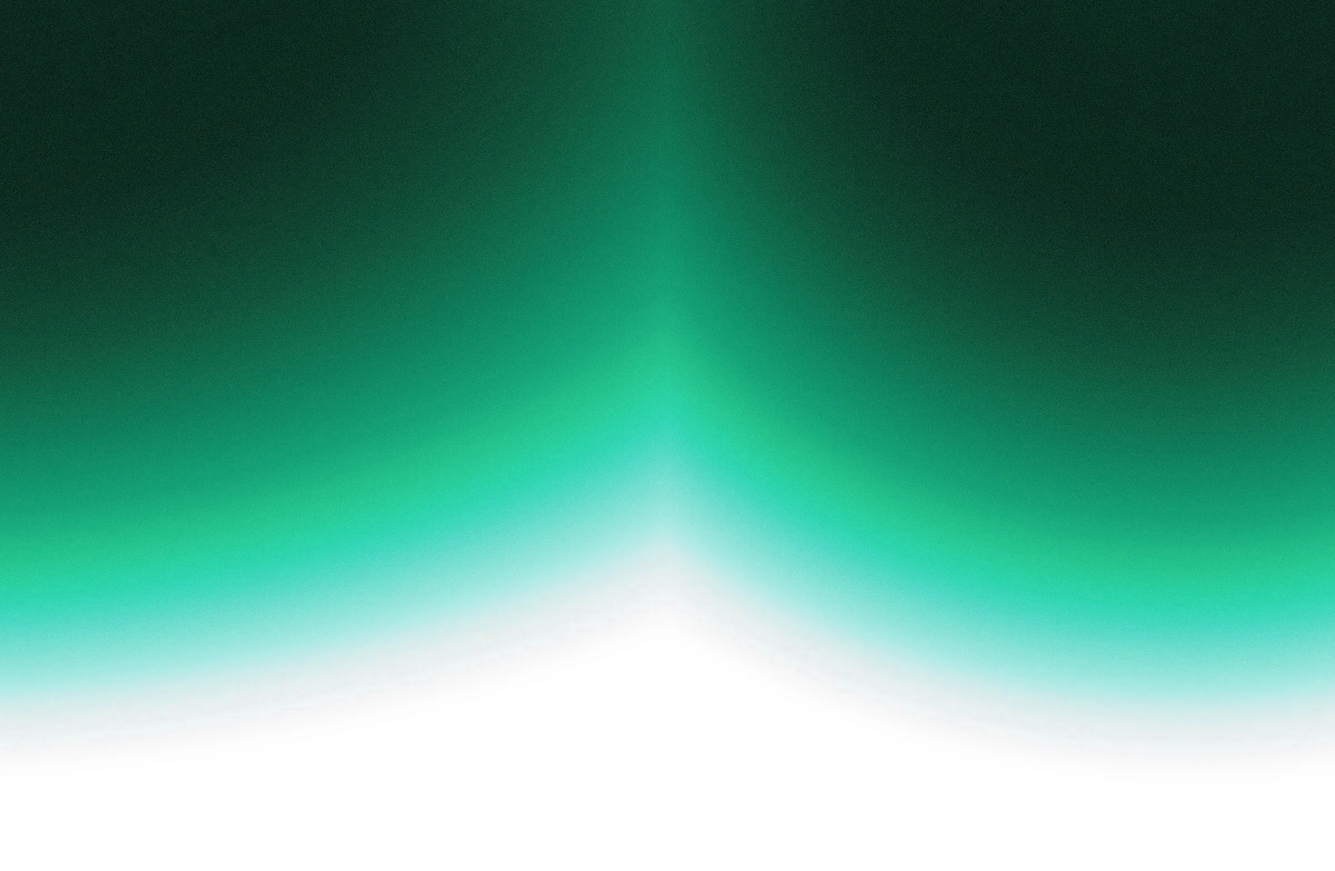
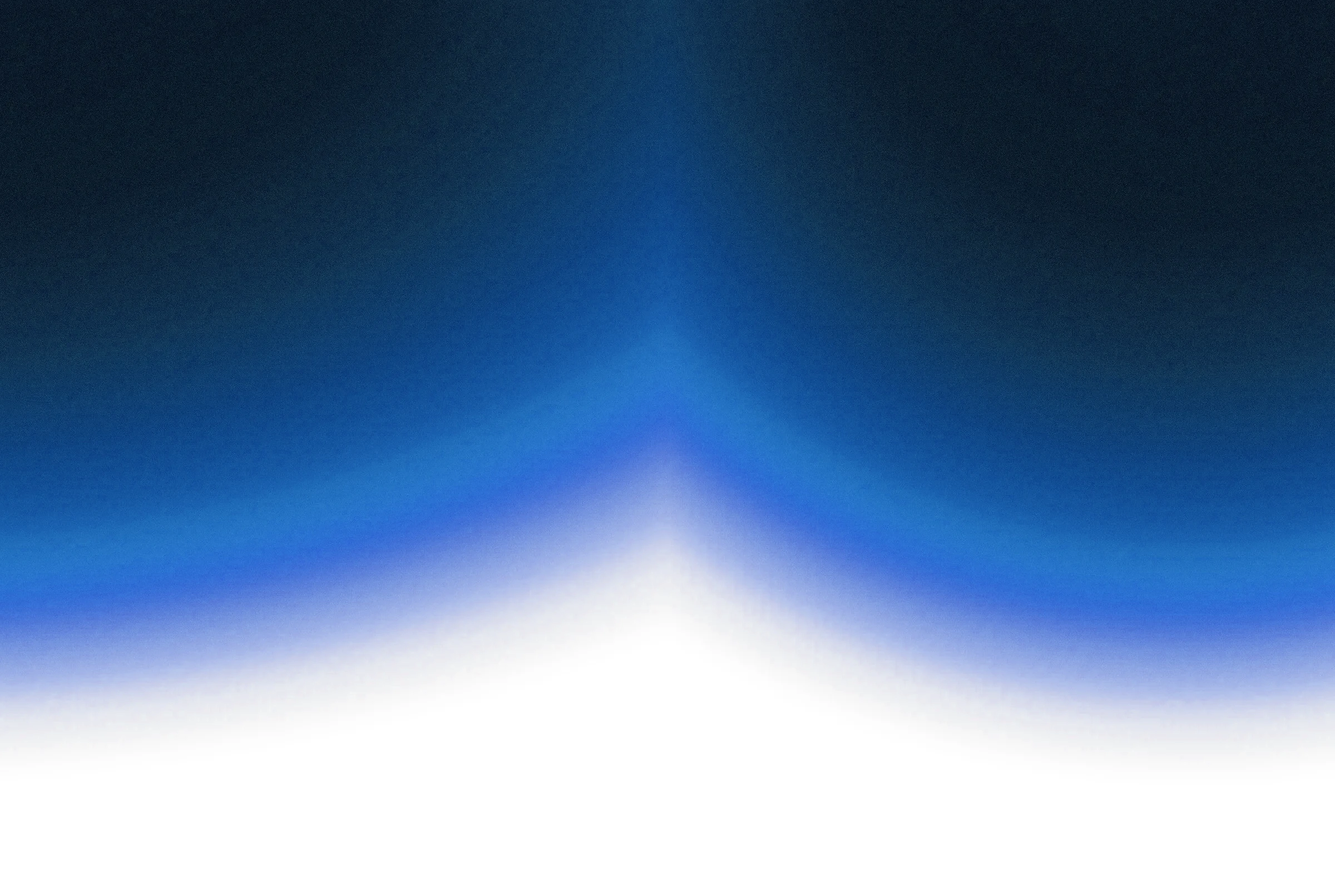
feat(ui): refine palette tokens to electric blue accent and update hero art

diff --git a/src/index.css b/src/index.css
@@ -9,8 +9,10 @@
 
 @layer base {
   :root {
-    /* Warm cream + ink + emerald, ported from the Bitplaza/Opten design system.
-       Spec: docs/superpowers/specs/2026-10-05-ui-redesign-foundation-landing-design.md §3 */
+    /* Warm cream + ink + electric blue, ported from the Bitplaza/Opten design
+       system. Spec: docs/superpowers/specs/2026-10-05-ui-redesign-foundation-landing-design.md §3
+       (accent switched from emerald #10A37F to blue #3575EE on 2026-10-06; the
+       score scale keeps green for "good"). */
     --background: 40 55% 96%;        /* #FAF6EE */
     --foreground: 25 29% 8%;         /* #1B140F */
 
@@ -20,10 +22,10 @@
     --popover: 0 0% 100%;
     --popover-foreground: 25 29% 8%;
 
-    /* Deep emerald. shadcn draws solid buttons, links and switches from
-       --primary, and white on this is 5.3:1. The bright brand emerald is
-       --accent, which is 3.2:1 under white and so never carries small text. */
-    --primary: 165 83% 26%;          /* #0B7A5F */
+    /* Deep blue. shadcn draws solid buttons, links and switches from
+       --primary, and white on this is 5.7:1. The bright brand blue is
+       --accent, which is 4.3:1 under white and so never carries small text. */
+    --primary: 221 67% 49%;          /* #2A5FD1 */
     --primary-foreground: 0 0% 100%;
 
     --secondary: 45 35% 93%;         /* #F4F1E8 */
@@ -32,7 +34,7 @@
     --muted: 45 35% 93%;
     --muted-foreground: 35 9% 39%;   /* #6B645A — 5.4:1 on cream */
 
-    --accent: 165 82% 35%;           /* #10A37F — glows, icons, rings, charts */
+    --accent: 219 84% 57%;           /* #3575EE — glows, icons, rings, charts */
     --accent-foreground: 0 0% 100%;
 
     --destructive: 6 54% 50%;        /* #C4483A */
@@ -40,18 +42,10 @@
 
     --border: 45 34% 89%;            /* #ECE7D8 */
     --input: 45 34% 89%;
-    --ring: 165 83% 26%;
+    --ring: 221 67% 49%;
 
     --radius: 0.75rem;
 
-    /* Custom tokens — warm, emerald-led */
-    --gradient-primary: linear-gradient(90deg, hsl(165 83% 26%) 0%, hsl(165 82% 35%) 100%);
-    --gradient-hero: linear-gradient(180deg, hsl(40 55% 96%) 0%, hsl(0 0% 100%) 100%);
-    --gradient-card: linear-gradient(135deg, hsl(0 0% 100% / 0.9) 0%, hsl(40 55% 96% / 0.8) 100%);
-    --glass-border: hsl(45 34% 89% / 0.8);
-    --glass-bg: hsl(0 0% 100% / 0.75);
-    --glow-primary: 0 20px 50px -20px hsl(165 82% 35% / 0.35);
-    --glow-subtle: 0 10px 30px -12px hsl(165 82% 35% / 0.15);
     /* Warm-tinted: a neutral grey shadow on cream reads as dirt. */
     --card-shadow: 0 1px 2px rgb(61 40 23 / 0.04), 0 8px 24px -12px rgb(61 40 23 / 0.1);
 
@@ -69,14 +63,16 @@
     --score-mid-text: 39 100% 27%;   /* #8A5A00 */
     --score-high-text: 165 83% 26%;  /* #0B7A5F */
 
-    --sidebar-background: 0 0% 100%;
-    --sidebar-foreground: 25 29% 8%;
-    --sidebar-primary: 165 83% 26%;
+    /* Dark rail (sub-project 3): the landing hero's navy. Only the shadcn
+       sidebar reads these, so setting them globally changes nothing else. */
+    --sidebar-background: 223 47% 7%;          /* #0A0F1C */
+    --sidebar-foreground: 220 37% 81%;         /* #BCC8E0 — 11:1 on the rail */
+    --sidebar-primary: 219 84% 57%;            /* #3575EE */
     --sidebar-primary-foreground: 0 0% 100%;
-    --sidebar-accent: 45 35% 93%;
-    --sidebar-accent-foreground: 25 29% 8%;
-    --sidebar-border: 45 34% 89%;
-    --sidebar-ring: 165 83% 26%;
+    --sidebar-accent: 221 48% 17%;             /* #16233F — hover / active fill */
+    --sidebar-accent-foreground: 0 0% 100%;
+    --sidebar-border: 223 33% 16%;             /* #1C2438 */
+    --sidebar-ring: 221 100% 71%;              /* #6B9BFF — focus on navy */
   }
 
   /* Unchanged from before the redesign: dark mode is unreachable and out of scope. */
@@ -128,135 +124,5 @@
 
   body {
     @apply bg-background text-foreground font-sans antialiased;
-  }
-}
-
-@layer components {
-  .glass-card {
-    @apply bg-card border border-border rounded-xl;
-    box-shadow: var(--card-shadow);
-  }
-
-  .glass-card-hover {
-    @apply glass-card transition-all duration-300;
-  }
-
-  .glass-card-hover:hover {
-    @apply border-accent/40;
-    box-shadow: var(--card-shadow), var(--glow-subtle);
-    transform: translateY(-2px);
-  }
-
-  .gradient-text {
-    @apply bg-clip-text text-transparent;
-    background-image: var(--gradient-primary);
-  }
-
-  .gradient-border {
-    position: relative;
-  }
-
-  .gradient-border::before {
-    content: '';
-    position: absolute;
-    inset: 0;
-    border-radius: inherit;
-    padding: 1px;
-    background: var(--gradient-primary);
-    -webkit-mask: linear-gradient(#fff 0 0) content-box, linear-gradient(#fff 0 0);
-    mask: linear-gradient(#fff 0 0) content-box, linear-gradient(#fff 0 0);
-    -webkit-mask-composite: xor;
-    mask-composite: exclude;
-  }
-
-  .hero-glow {
-    position: absolute;
-    width: 600px;
-    height: 600px;
-    background: radial-gradient(circle, hsl(165 82% 35% / 0.10) 0%, transparent 70%);
-    filter: blur(80px);
-    pointer-events: none;
-  }
-
-  .stat-card {
-    @apply glass-card p-6 space-y-3;
-  }
-
-  .session-card {
-    @apply glass-card-hover p-5 cursor-pointer;
-  }
-
-  .nav-link {
-    @apply text-muted-foreground hover:text-foreground transition-colors duration-200 text-sm font-medium;
-  }
-
-  .nav-link-active {
-    @apply text-foreground;
-  }
-
-  .badge-success {
-    @apply bg-accent/10 text-score-high-text border border-accent/20 text-xs px-2.5 py-0.5 rounded-full font-medium;
-  }
-
-  .badge-warning {
-    @apply bg-warning/10 text-score-mid-text border border-warning/20 text-xs px-2.5 py-0.5 rounded-full font-medium;
-  }
-
-  .badge-info {
-    @apply bg-info/10 text-info border border-info/20 text-xs px-2.5 py-0.5 rounded-full font-medium;
-  }
-
-  .progress-bar {
-    @apply h-1.5 rounded-full bg-muted overflow-hidden;
-  }
-
-  .progress-bar-fill {
-    @apply h-full rounded-full transition-all duration-500;
-    background: var(--gradient-primary);
-  }
-}
-
-@layer utilities {
-  .animate-fade-up {
-    animation: fadeUp 0.6s ease-out forwards;
-  }
-
-  .animate-fade-up-delay-1 {
-    animation: fadeUp 0.6s ease-out 0.1s forwards;
-    opacity: 0;
-  }
-
-  .animate-fade-up-delay-2 {
-    animation: fadeUp 0.6s ease-out 0.2s forwards;
-    opacity: 0;
-  }
-
-  .animate-fade-up-delay-3 {
-    animation: fadeUp 0.6s ease-out 0.3s forwards;
-    opacity: 0;
-  }
-
-  .animate-glow-pulse {
-    animation: glowPulse 3s ease-in-out infinite;
-  }
-}
-
-@keyframes fadeUp {
-  from {
-    opacity: 0;
-    transform: translateY(20px);
-  }
-  to {
-    opacity: 1;
-    transform: translateY(0);
-  }
-}
-
-@keyframes glowPulse {
-  0%, 100% {
-    opacity: 0.5;
-  }
-  50% {
-    opacity: 1;
   }
 }

diff --git a/src/test/tokens.test.ts b/src/test/tokens.test.ts
@@ -20,12 +20,12 @@ describe("design tokens", () => {
   it.each([
     ["--background", "40 55% 96%"],
     ["--foreground", "25 29% 8%"],
-    ["--primary", "165 83% 26%"],
+    ["--primary", "221 67% 49%"],
     ["--primary-foreground", "0 0% 100%"],
-    ["--accent", "165 82% 35%"],
+    ["--accent", "219 84% 57%"],
     ["--muted-foreground", "35 9% 39%"],
     ["--border", "45 34% 89%"],
-    ["--ring", "165 83% 26%"],
+    ["--ring", "221 67% 49%"],
     ["--destructive", "6 54% 50%"],
     ["--score-low", "6 54% 50%"],
     ["--score-mid", "37 91% 55%"],
@@ -33,6 +33,13 @@ describe("design tokens", () => {
     ["--score-low-text", "6 58% 42%"],
     ["--score-mid-text", "39 100% 27%"],
     ["--score-high-text", "165 83% 26%"],
+    ["--sidebar-background", "223 47% 7%"],
+    ["--sidebar-foreground", "220 37% 81%"],
+    ["--sidebar-primary", "219 84% 57%"],
+    ["--sidebar-accent", "221 48% 17%"],
+    ["--sidebar-accent-foreground", "0 0% 100%"],
+    ["--sidebar-border", "223 33% 16%"],
+    ["--sidebar-ring", "221 100% 71%"],
   ])("sets %s to %s", (token, value) => {
     expect(css).toContain(`${token}: ${value};`);
   });

diff --git a/src/test/landing-assets.test.ts b/src/test/landing-assets.test.ts
@@ -2,14 +2,21 @@
 import { existsSync, statSync } from "node:fs";
 import { resolve } from "node:path";
 import { describe, expect, it } from "vitest";
+import { HERO } from "@/components/landing/content";
 
-/** Every image the landing page references. Task 10 adds the hero screenshot. */
-const LANDING_ASSETS = ["hero-ground.webp", "section-glow.webp", "grain.webp"];
+/** Every image the landing page references. */
+const LANDING_ASSETS = ["hero-ground.webp", "section-glow.webp", "grain.webp", "hero-interview.webp"];
 
 describe("landing artwork", () => {
   it.each(LANDING_ASSETS)("ships public/images/landing/%s", (name) => {
     const file = resolve(process.cwd(), "public/images/landing", name);
     expect(existsSync(file)).toBe(true);
     expect(statSync(file).size).toBeGreaterThan(0);
+  });
+
+  it("covers every image path the page references", () => {
+    for (const path of [HERO.groundSrc, HERO.shot.src]) {
+      expect(LANDING_ASSETS.map((name) => `/images/landing/${name}`)).toContain(path);
+    }
   });
 });

diff --git a/scripts/retone-landing-art.py b/scripts/retone-landing-art.py
@@ -1,10 +1,11 @@
 #!/usr/bin/env python3
-"""Re-tone the reference landing artwork from Bitplaza orange to Amplify emerald.
+"""Re-tone the reference landing artwork from Bitplaza orange to Amplify's accent.
 
 One-off, kept in the repo so the artwork can be regenerated if the accent changes.
 Spec: docs/superpowers/specs/2026-10-05-ui-redesign-foundation-landing-design.md §5.
 
-- Hue is rotated by a fixed amount (orange #FA6A3C -> emerald #10A37F).
+- Hue is rotated by a fixed amount (orange #FA6A3C -> the --target accent).
+  Emerald #10A37F used --hue-nudge -7; electric blue #3575EE (default) uses -10.
 - Saturation is untouched. Value is optionally scaled, weighted by saturation, so
   saturated pixels darken while neutral ones (the hero's white foot) do not move.
 - Alpha is copied byte-for-byte.
@@ -34,14 +35,14 @@ def hue(hex_color: str) -> float:
     return colorsys.rgb_to_hsv(r, g, b)[0]
 
 
-def hue_shift(nudge_degrees: float) -> int:
+def hue_shift(target: str, nudge_degrees: float) -> int:
     """Rotation in PIL units (hue stored as 0-255 for 0-360 degrees).
 
     The reference's brightest pixels are amber, ~15 degrees yellower than its
-    orange, so a straight orange->emerald rotation lands them on cyan. The nudge
-    pulls the whole rotation back toward green.
+    orange, so a straight rotation lands them further round the wheel than the
+    accent. The nudge pulls the whole rotation back (negative = less rotation).
     """
-    turn = (hue("#10A37F") - hue("#FA6A3C") + nudge_degrees / 360) % 1.0
+    turn = (hue(target) - hue("#FA6A3C") + nudge_degrees / 360) % 1.0
     return round(turn * 256) % 256
 
 
@@ -70,13 +71,14 @@ def main() -> None:
         "--glow-value", type=float, default=0.9,
         help="value scale for the section glow (1.0 = unchanged)",
     )
+    parser.add_argument("--target", default="#3575EE", help="accent hex the artwork is rotated to")
     parser.add_argument(
-        "--hue-nudge", type=float, default=-7.0,
-        help="degrees added to the orange->emerald rotation (negative = greener)",
+        "--hue-nudge", type=float, default=-10.0,
+        help="degrees added to the orange->target rotation (negative = less rotation)",
     )
     args = parser.parse_args()
     OUT.mkdir(parents=True, exist_ok=True)
-    shift = hue_shift(args.hue_nudge)
+    shift = hue_shift(args.target, args.hue_nudge)
 
     hero_src = Image.open(args.src / "hero-ground.webp")
     hero = retone(hero_src, args.hero_value, shift)
